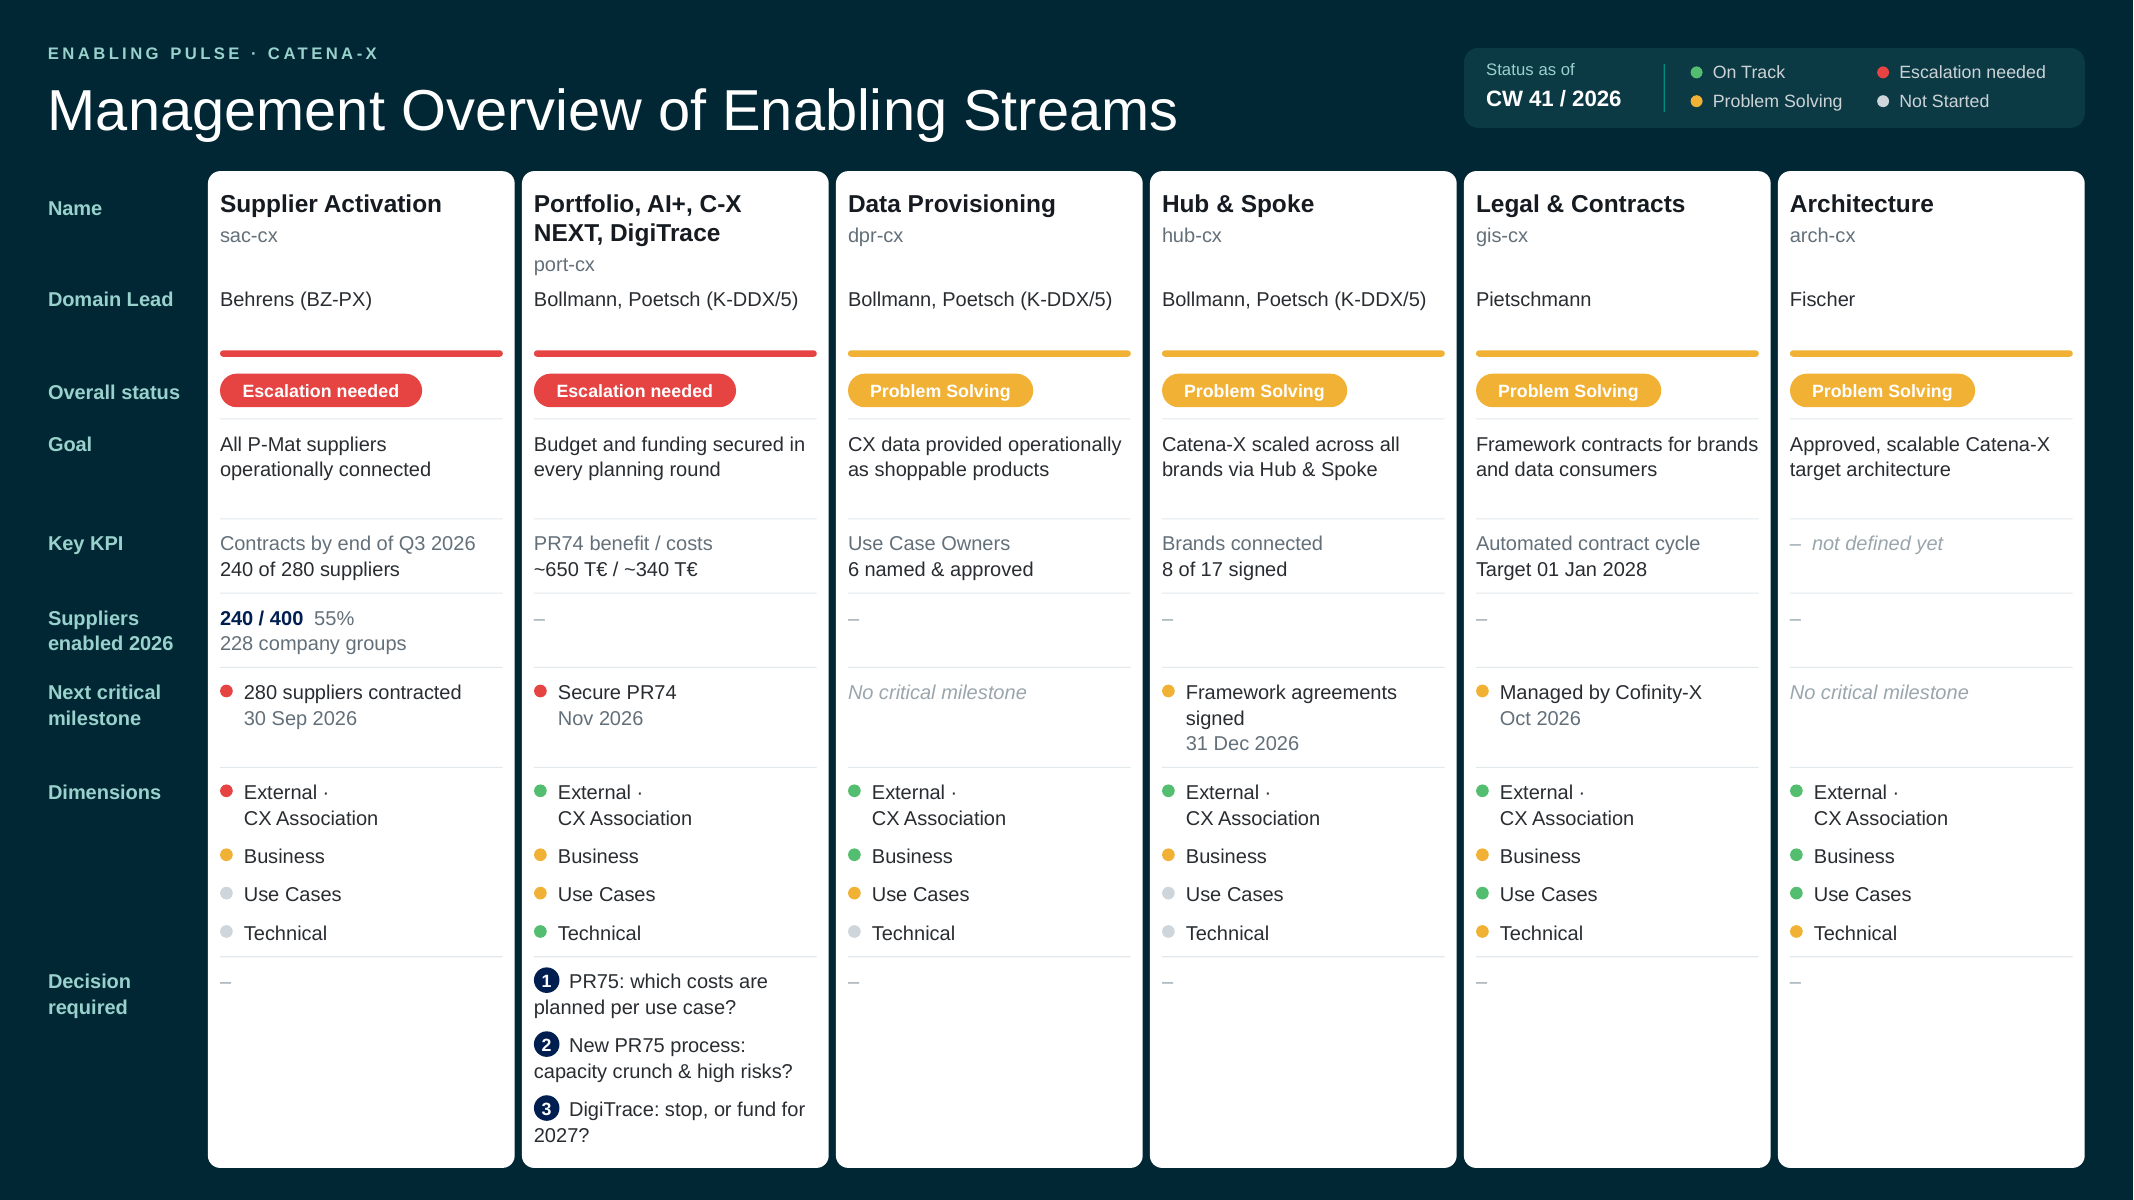
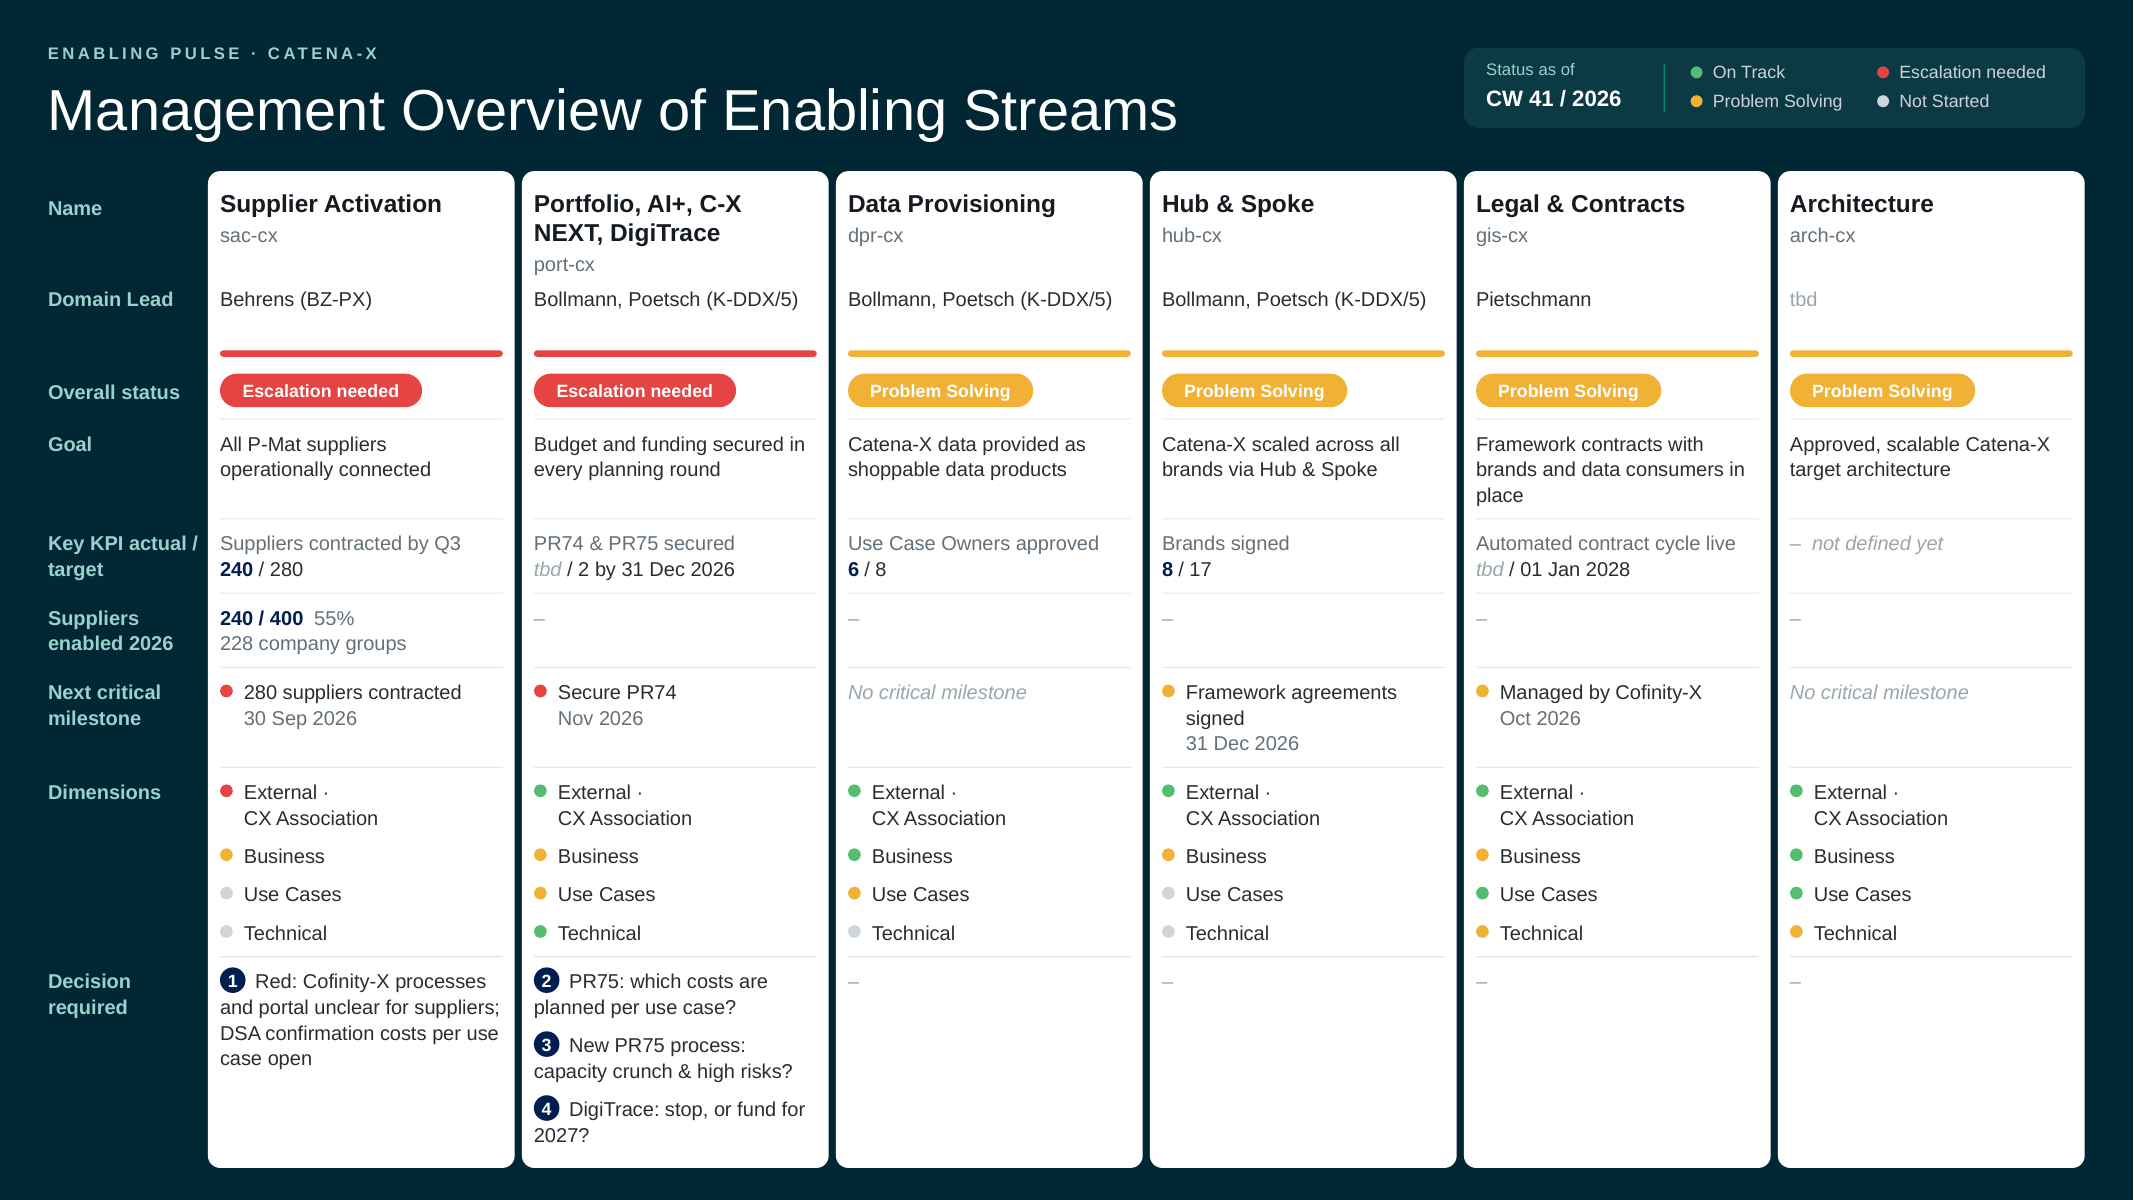
Align titles, KPI as actual/target, Supplier Activation decision
- Slide 1 title 'Management Overview of Use Cases' to match slide 2
- Key KPI shows actual / target (tbd where the source has no actual)
- Supplier Activation: reason for red in decision row; Portfolio
  decisions renumbered 2-4
- Catena-X written out in goals, clearer Legal & Contracts goal
- Architecture Domain Lead tbd (Fischer is Workstream Manager)

Claude-Session: https://claude.ai/code/session_01CQaEDurRGWu6YUbJ4GCCPu

diff --git a/scripts/build_enabling_overview.py b/scripts/build_enabling_overview.py
@@ -19,41 +19,44 @@ ENABLING_DIMS = ["External · CX Association", "Business", "Use Cases", "Technic
 
 # CW 41 / 2026 Enabling Pulse slides. Content in short business English, abbreviations lower case.
 # ms = next critical milestone (red before amber, then earliest; Portfolio: Secure PR74 as agreed);
-# None = no amber/red milestone. kpi = (KPI title, value) taken from the "KPIs (defined per area)" box.
+# None = no amber/red milestone. kpi = (KPI title, actual, target) from the "KPIs (defined per area)" box;
+# actual None = not reported in the source slide (shown as "tbd").
 COLUMNS = [  # sorted: Escalation needed -> Problem solving -> On track
     dict(name="Supplier Activation", abbr="sac-cx", dl="Behrens (BZ-PX)", status="esc",
          goal="All P-Mat suppliers operationally connected",
-         kpi=("Contracts by end of Q3 2026", "240 of 280 suppliers"),
+         kpi=("Suppliers contracted by Q3", "240", "280"),
          sup=(240, 400), sup_pct=55, sup_note="228 company groups",
          ms=("esc", "280 suppliers contracted", "30 Sep 2026"),
-         dims=["esc", "ps", "ns", "ns"]),
+         dims=["esc", "ps", "ns", "ns"],
+         decisions=[(1, "Red: Cofinity-X processes and portal unclear for suppliers; "
+                        "DSA confirmation costs per use case open")]),
     dict(name="Portfolio, AI+, C-X NEXT, DigiTrace", abbr="port-cx", dl="Bollmann, Poetsch (K-DDX/5)", status="esc",
          goal="Budget and funding secured in every planning round",
-         kpi=("PR74 benefit / costs", "~650 T€ / ~340 T€"),
+         kpi=("PR74 & PR75 secured", None, "2 by 31 Dec 2026"),
          sup=None, sup_text="–",
          ms=("esc", "Secure PR74", "Nov 2026"),
          dims=["ok", "ps", "ps", "ok"],
-         decisions=[(1, "PR75: which costs are planned per use case?"),
-                    (2, "New PR75 process: capacity crunch & high risks?"),
-                    (3, "DigiTrace: stop, or fund for 2027?")]),
+         decisions=[(2, "PR75: which costs are planned per use case?"),
+                    (3, "New PR75 process: capacity crunch & high risks?"),
+                    (4, "DigiTrace: stop, or fund for 2027?")]),
     dict(name="Data Provisioning", abbr="dpr-cx", dl="Bollmann, Poetsch (K-DDX/5)", status="ps",
-         goal="CX data provided operationally as shoppable products",
-         kpi=("Use Case Owners", "6 named & approved"),
+         goal="Catena-X data provided as shoppable data products",
+         kpi=("Use Case Owners approved", "6", "8"),
          sup=None, sup_text="–", ms=None,
          dims=["ok", "ok", "ps", "ns"]),
     dict(name="Hub & Spoke", abbr="hub-cx", dl="Bollmann, Poetsch (K-DDX/5)", status="ps",
          goal="Catena-X scaled across all brands via Hub & Spoke",
-         kpi=("Brands connected", "8 of 17 signed"),
+         kpi=("Brands signed", "8", "17"),
          sup=None, sup_text="–",
          ms=("ps", "Framework agreements signed", "31 Dec 2026"),
          dims=["ok", "ps", "ns", "ns"]),
-    dict(name="Legal & Contracts", abbr="gis-cx", dl="Pietschmann", status="ps",
-         goal="Framework contracts for brands and data consumers",
-         kpi=("Automated contract cycle", "Target 01 Jan 2028"),
+    dict(name="Legal & Contracts", abbr="gis-cx", dl="Pietschmann", status="ps",  # Domain Lead to be confirmed
+         goal="Framework contracts with brands and data consumers in place",
+         kpi=("Automated contract cycle live", None, "01 Jan 2028"),
          sup=None, sup_text="–",
          ms=("ps", "Managed by Cofinity-X", "Oct 2026"),
          dims=["ok", "ps", "ok", "ps"]),
-    dict(name="Architecture", abbr="arch-cx", dl="Fischer", status="ps",
+    dict(name="Architecture", abbr="arch-cx", dl="tbd", status="ps",  # Fischer is Workstream Manager
          goal="Approved, scalable Catena-X target architecture",
          kpi=None,
          sup=None, sup_text="–", ms=None,
@@ -69,7 +72,7 @@ ENABLING_BOARD = dict(
     rows=[
         ("status", "Overall status"),
         ("goal", "Goal"),
-        ("kpi", "Key KPI"),
+        ("kpi", "Key KPI actual / target"),
         ("sup", "Suppliers enabled 2026"),
         ("ms", "Next critical milestone"),
         ("dims", "Dimensions"),

diff --git a/scripts/build_management_overview.py b/scripts/build_management_overview.py
@@ -150,10 +150,12 @@ def cell(key, uc, w, board):
         return k * LH, lambda s, x, top: para_box(s, f"{n} Goal", x, top, w, k, [[r(uc["goal"], F, False, INK)]])
 
     if key == "kpi":
-        if uc.get("kpi"):
-            title, value = uc["kpi"]
-            paras = [[r(title, F, False, MUTED)], [r(value, F, False, INK)]]
-            k = n_lines(title, F, w) + n_lines(value, F, w)
+        if uc.get("kpi"):  # (title, actual, target); actual None = not reported yet
+            title, actual, target = uc["kpi"]
+            value = [r(actual, F, True, COMPLETED) if actual else r("tbd", F, False, FAINT, None, True),
+                     r(f" / {target}", F, False, INK)]
+            paras = [[r(title, F, False, MUTED)], value]
+            k = n_lines(title, F, w) + n_lines((actual or "tbd") + f" / {target}", F, w)
         else:
             paras = [[r("–  ", F, False, FAINT), r(GO_LIVE_MISSING, F, False, FAINT, None, True)]]
             k = n_lines("–  " + GO_LIVE_MISSING, F, w)
@@ -233,7 +235,7 @@ HEAD_LABELS = ["Name", "Domain Lead"]
 
 USE_CASE_BOARD = dict(
     eyebrow="USE CASE PULSE · CATENA-X",
-    title="Management Overview of Catena-X Use Cases",
+    title="Management Overview of Use Cases",
     columns=COLUMNS,
     dims=USE_CASE_DIMS,
     rows=[
